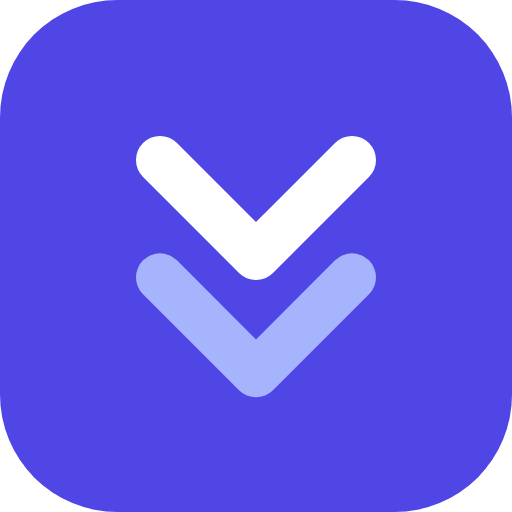
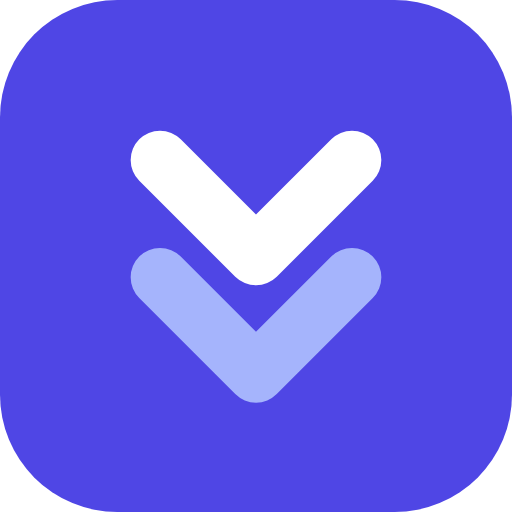
style(brand): thicken the chevron stroke from 9 to 11
At 24px inside the auth-page square the chevrons read thin. Stroke 11 gives the mark
more presence while keeping a clear gap between the two chevrons.

Propagated everywhere the mark is embedded or rasterized: logo.svg, VeskaMark, the
four PNG icons, cover.svg, and the login screenshot (recaptured, asserting the
rendered stroke-width is 11).

diff --git a/apps/admin/src/components/veska-mark.tsx b/apps/admin/src/components/veska-mark.tsx
@@ -12,7 +12,7 @@ export function VeskaMark({ className = 'w-6 h-6' }: { className?: string }) {
         d="M30 30l18 18 18-18"
         fill="none"
         stroke="#fff"
-        strokeWidth="9"
+        strokeWidth="11"
         strokeLinecap="round"
         strokeLinejoin="round"
       />
@@ -20,7 +20,7 @@ export function VeskaMark({ className = 'w-6 h-6' }: { className?: string }) {
         d="M30 52l18 18 18-18"
         fill="none"
         stroke="#A5B4FC"
-        strokeWidth="9"
+        strokeWidth="11"
         strokeLinecap="round"
         strokeLinejoin="round"
       />
